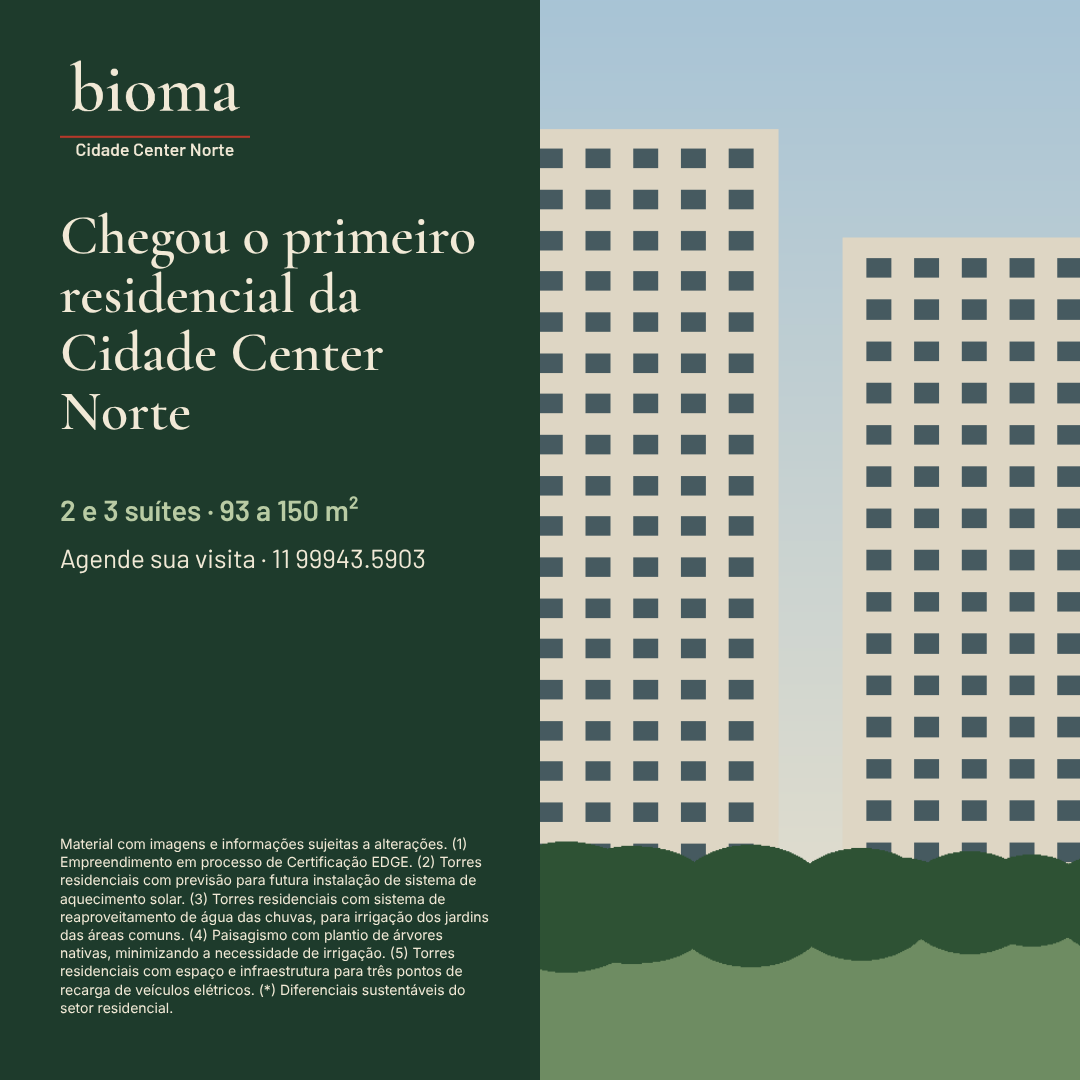
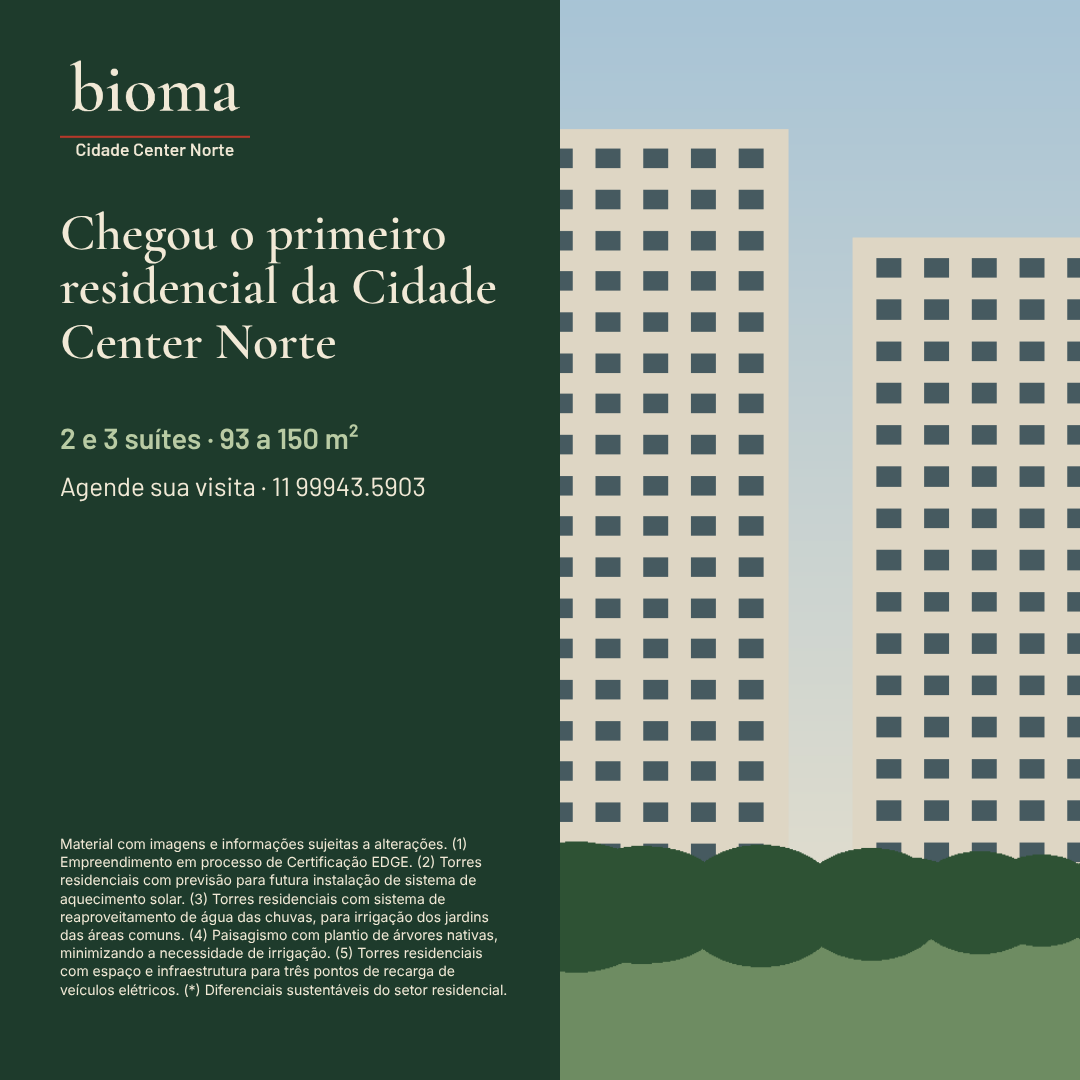
Bancada: replica R3b bioma_produto
Claude-Session: https://claude.ai/code/session_01FAXgPMdKXzkkk9D8mSifwb

diff --git a/bancada/runs/R01/scripts/R2/bioma_piscina.py b/bancada/runs/R01/scripts/R2/bioma_piscina.py
@@ -319,12 +319,12 @@ def banner(fk, P):
 
 PARAMS = {
     "email_600x1200": (stack_vertical, {"logo": 180, "h": 55, "c": 24, "l": 10, "llh": 1.4,
-                                         "gaps": [34, 44, 40, 20], "min_cw": 0.80}),
+                                         "gaps": [34, 44, 40, 20], "min_cw": 0.86}),
     "post_1080x1350": (stack_vertical, {"logo": 230, "h": 70, "c": 32, "l": 14, "llh": 1.3,
                                          "gaps": [44, 48, 44, 22], "min_cw": 0.86}),
     "card_1080x1080": (card, {"logo": 210, "col_gap": 60, "h": 68, "c": 30, "l": 14,
                               "g_top": 44, "g_pc": 36, "g_cl": 16}),
-    "stories_1080x1920": (stories, {"cw": 0.80, "g_photo": 64, "logo": 280, "h": 86, "c": 38, "l": 17,
+    "stories_1080x1920": (stories, {"cw": 0.88, "g_photo": 64, "logo": 280, "h": 86, "c": 38, "l": 17,
                                     "gaps": [44, 48, 30]}),
     "banner_970x250": (banner, {"photo_w": 430, "gutter": 20, "logo": 130, "col_gap": 20, "h": 41, "c": 16, "legal_w": 470,
                                 "l": 8, "llh": 1.3, "g_hc": 10, "top": 2}),
